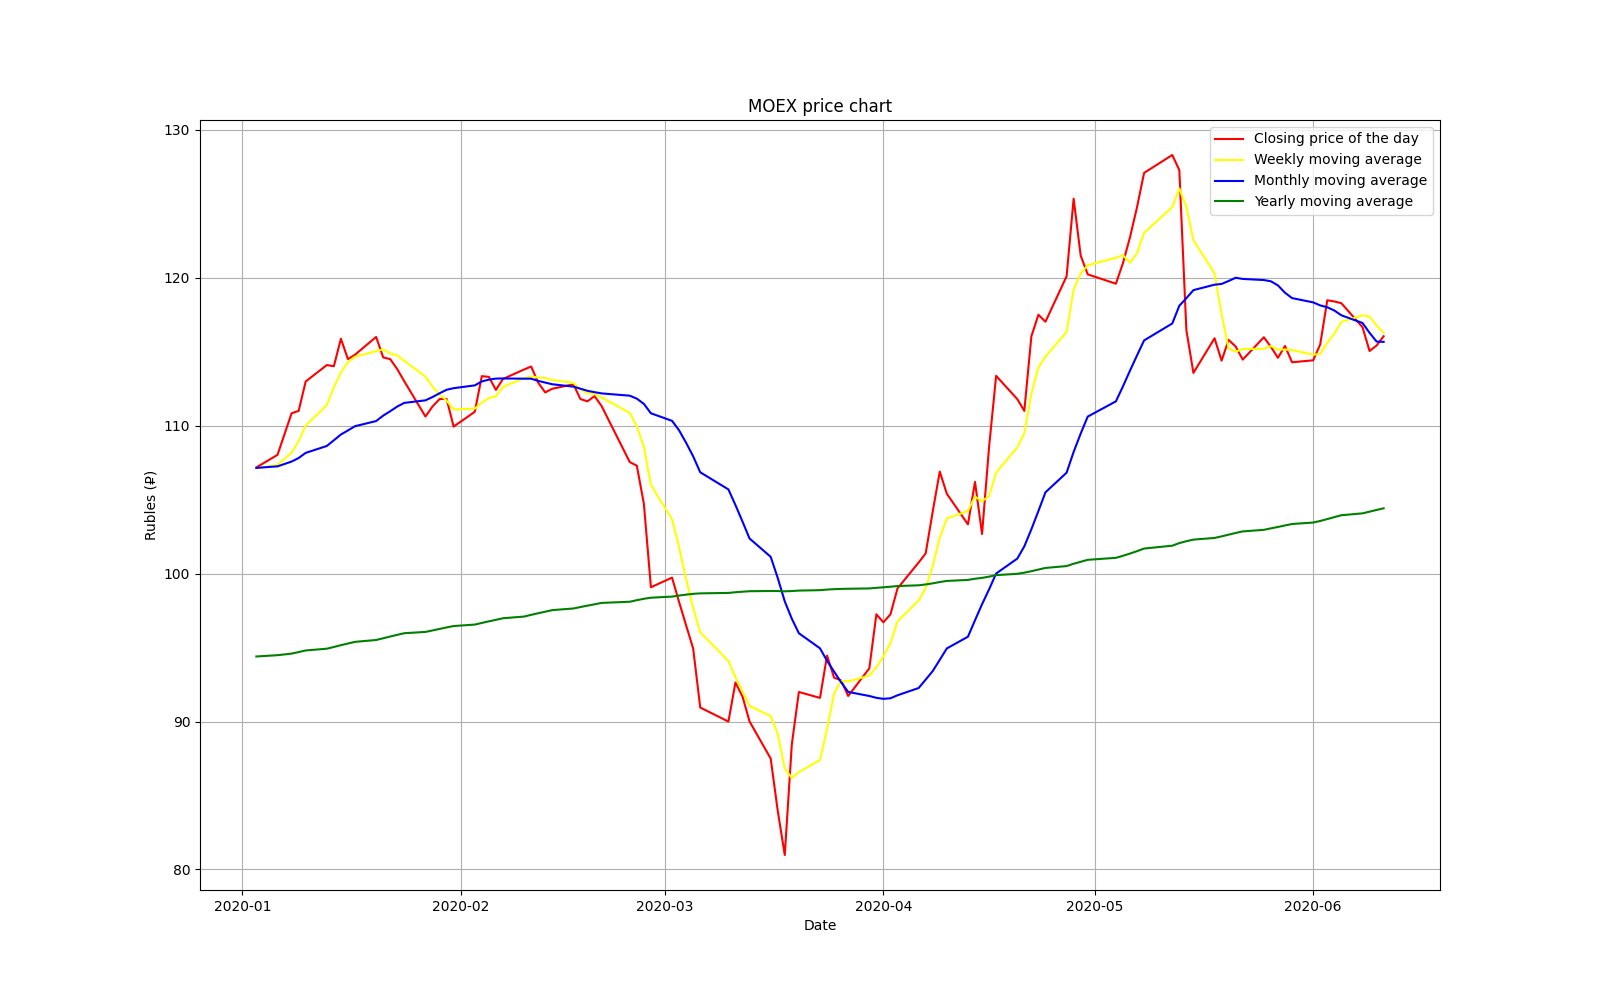
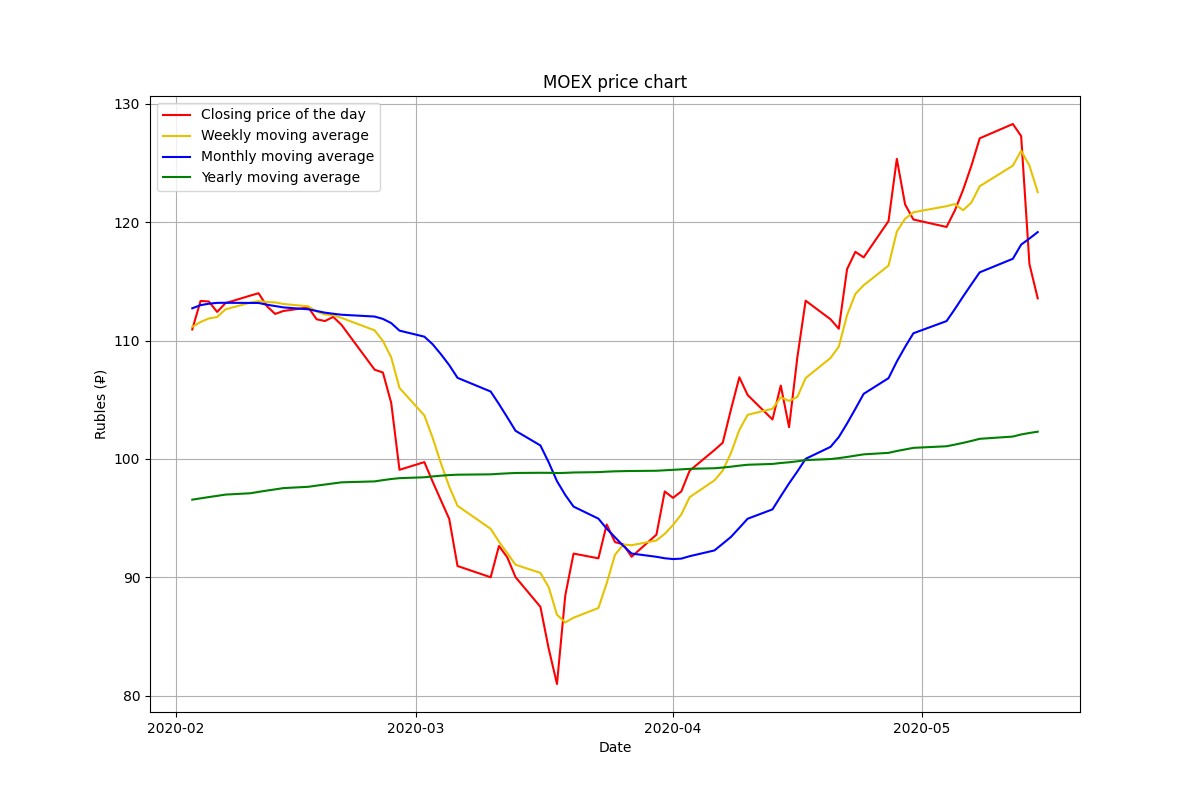
Add info about "Day change"

diff --git a/moex_trend.py b/moex_trend.py
@@ -5,14 +5,17 @@ class MoexTrend:
 
     def print_trend(self, data_frame, security_name):
         price_last = data_frame.iloc[-1].price
-        price_week_ago = data_frame.iloc[-6].price
-        price_month_ago = data_frame.iloc[-21].price
-        price_year_ago = data_frame.iloc[-201].price
+        price_yesterday = data_frame.iloc[-2].price
+        price_week_ago = data_frame.iloc[-11:-6].price.mean()
+        price_month_ago = data_frame.iloc[-27:-21].price.mean()
+        price_year_ago = data_frame.iloc[-207:-201].price.mean()
 
+        diff_yesterday = (price_last - price_yesterday) / price_yesterday
         diff_week = (price_last - price_week_ago) / price_week_ago
         diff_month = (price_last - price_month_ago) / price_month_ago
         diff_year = (price_last - price_year_ago) / price_year_ago
 
+        print("{} Day change:   {:.2%}".format(security_name, diff_yesterday))
         print("{} Week change:  {:.2%}".format(security_name, diff_week))
         print("{} Month change: {:.2%}".format(security_name, diff_month))
         print("{} Year change:  {:.2%}".format(security_name, diff_year))

diff --git a/moex_chart.py b/moex_chart.py
@@ -42,11 +42,11 @@ class MoexChart:
         months = mdates.MonthLocator()
         format_date = mdates.DateFormatter('%Y-%m')
 
-        fig, ax = plt.subplots(figsize=(16, 10))
+        fig, ax = plt.subplots(figsize=(12, 8))
         ax.set_title(security_name + ' price chart')
 
         plt.plot(date_x, day_price, 'red', label='Closing price of the day')
-        plt.plot(date_x, week_price, 'yellow', label='Weekly moving average')
+        plt.plot(date_x, week_price, '#e6c300', label='Weekly moving average')
         plt.plot(date_x, month_price, 'blue', label='Monthly moving average')
         plt.plot(date_x, year_price, 'green', label='Yearly moving average')
 

diff --git a/README.md b/README.md
@@ -7,7 +7,7 @@ A simple engine for analyzing Moscow Exchange securities
 ### Scheme
 ```shell script
 python3 main_moex_analysis.py [-h] --security SECURITY [SECURITY ...] --board BOARD 
-                      [--date DATE] [--chart]
+                              [--date DATE] [--chart]
 ```
 ### Arguments
 ```shell script
@@ -55,9 +55,10 @@ After that inside the `~/moex/chart` directory you can find charts with security
 # Output
 ## Analysis
 ```shell script
-MOEX Week change:  -1.98%
-MOEX Month change: -0.35%
-MOEX Year change:  24.12%
+MOEX Day change:   -2.48%
+MOEX Week change:  -6.15%
+MOEX Month change: 8.61%
+MOEX Year change:  23.91%
 ```
 ## Chart
 <img src="https://raw.githubusercontent.com/dzx912/moex-analyzer/master/example/MOEX.png" alt="MOEX price chart" width="800"/>
